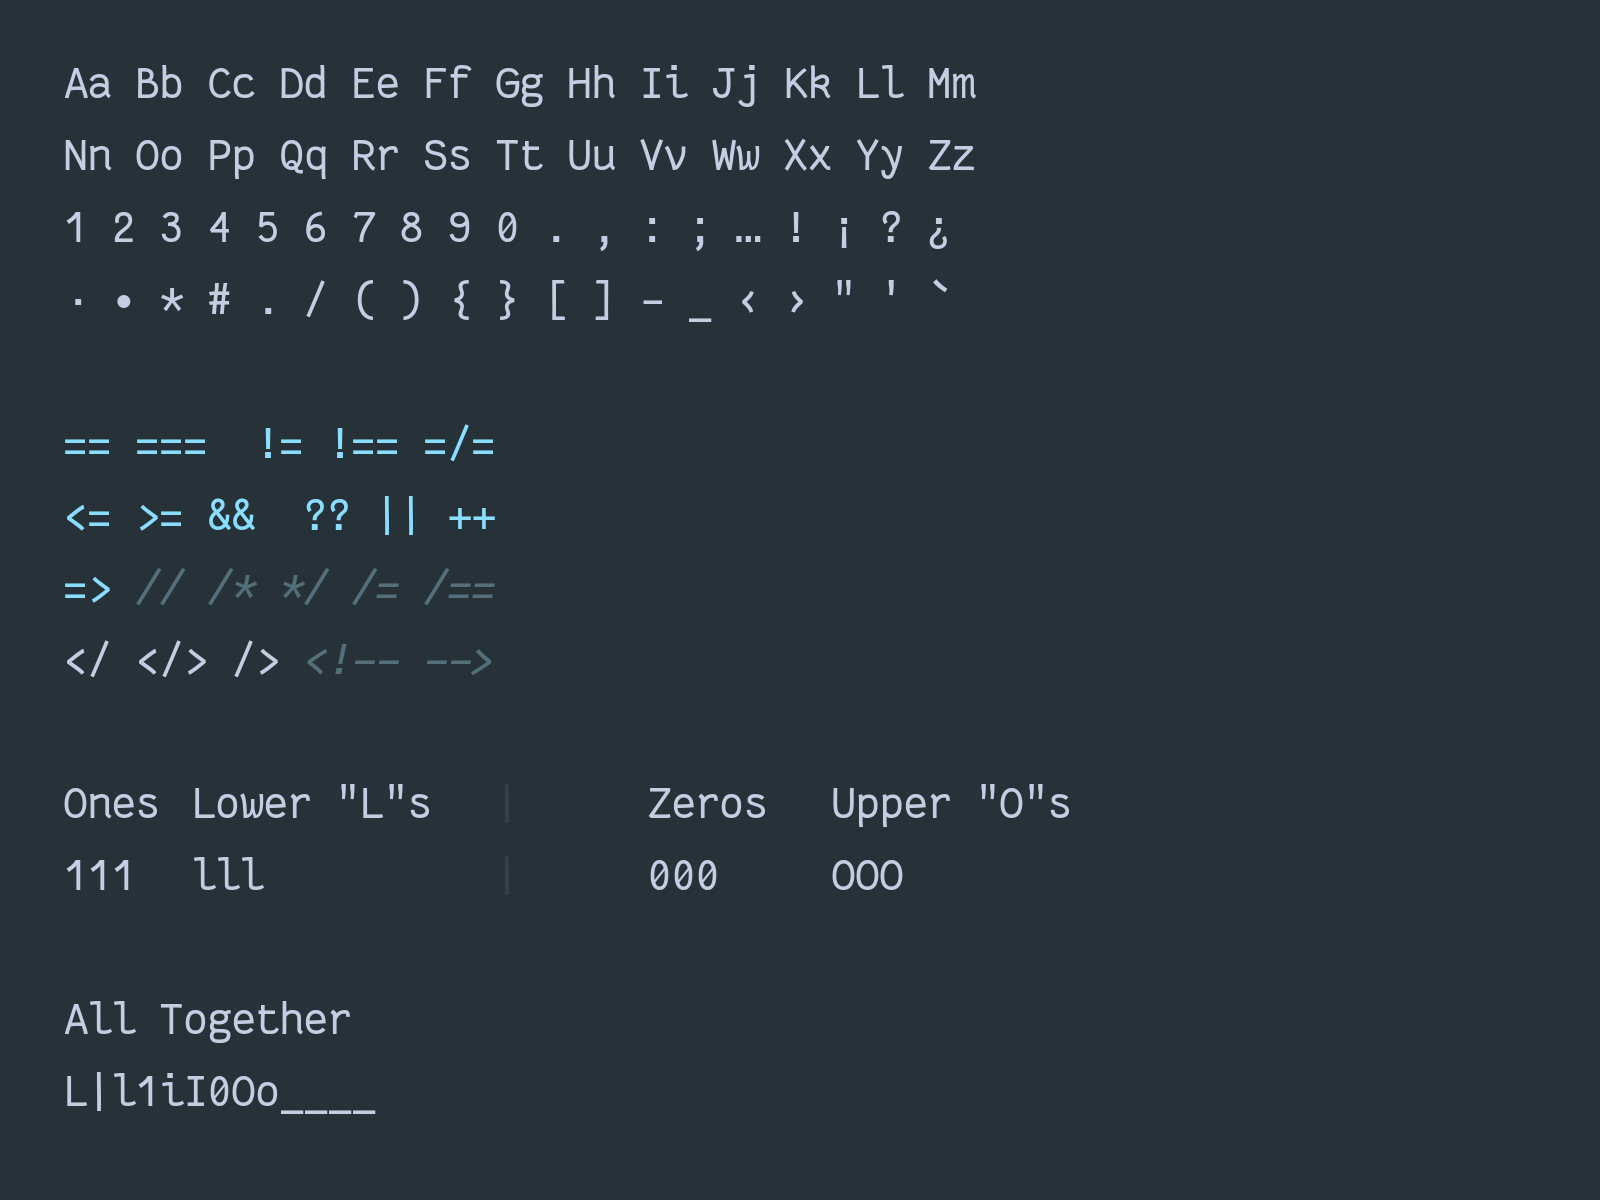
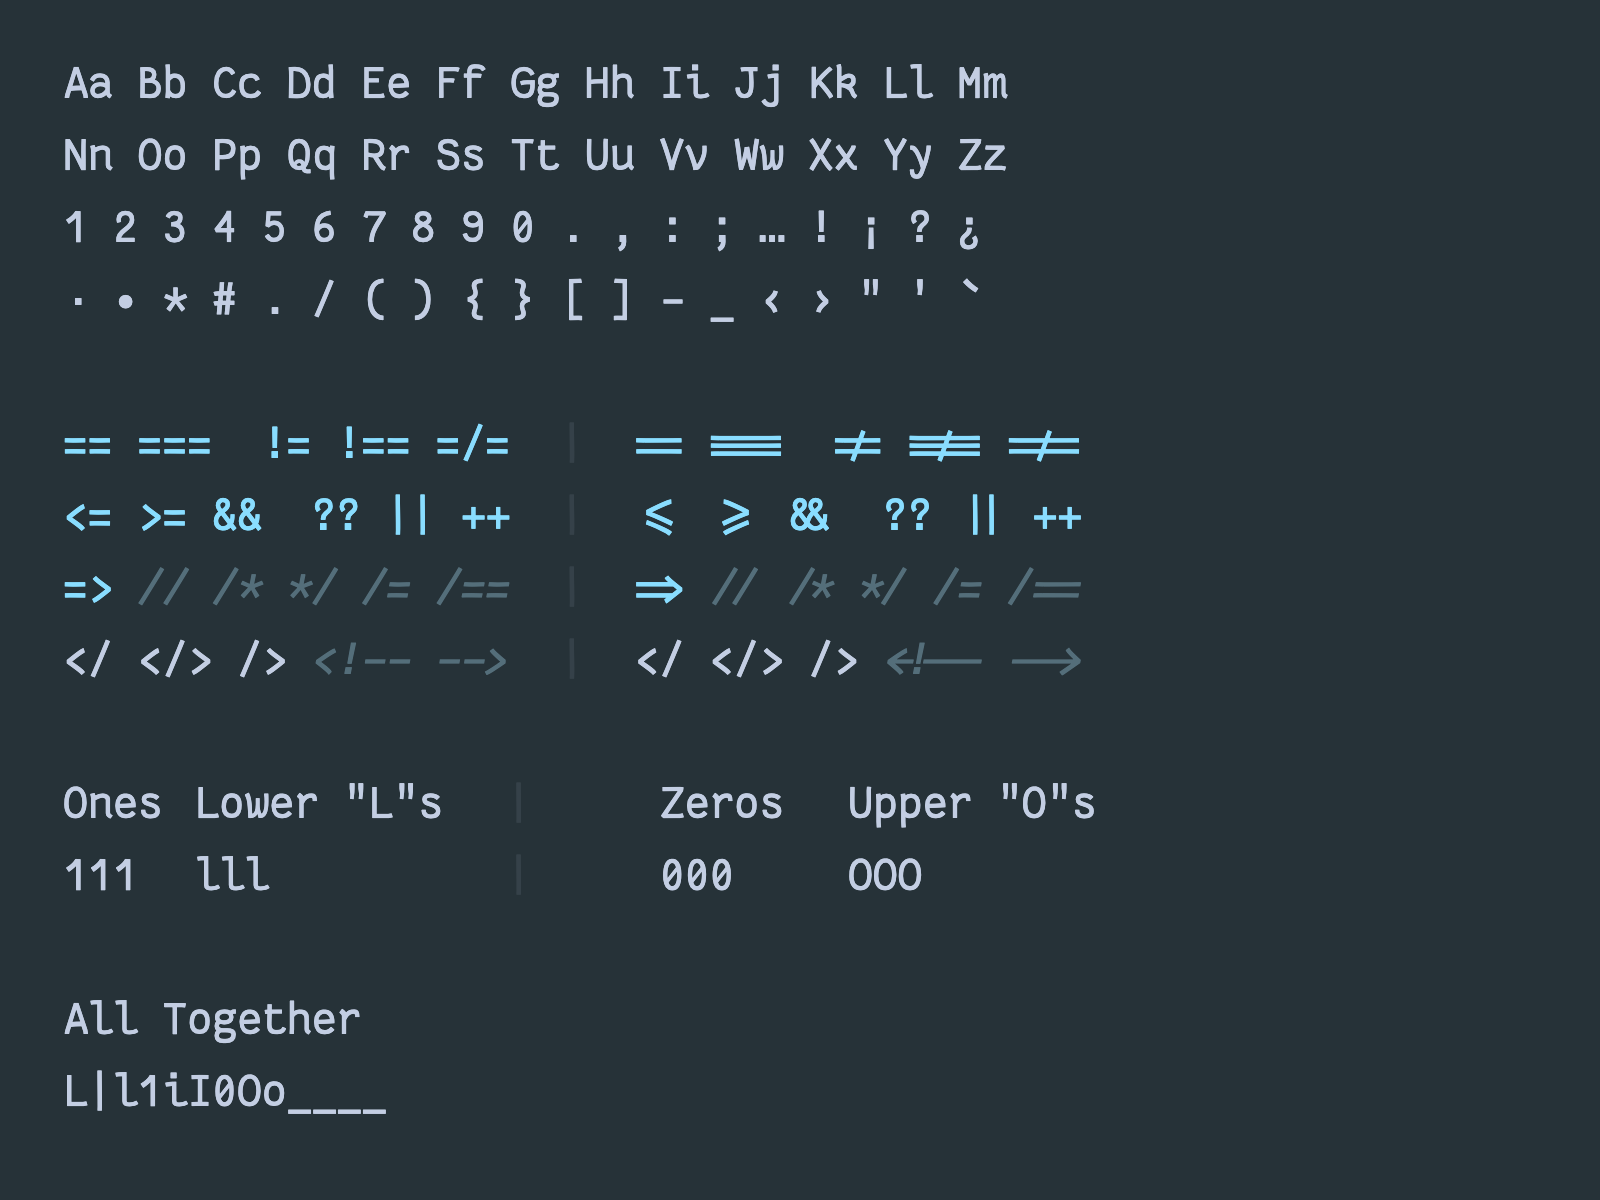
Set `ligatures` to `true` for Fantasque Sans Mono

diff --git a/src/fonts/fantasque-sans-mono.md b/src/fonts/fantasque-sans-mono.md
@@ -8,7 +8,7 @@ license:
   - name: SIL OPEN FONT LICENSE Version 1.1
     url: https://github.com/belluzj/fantasque-sans/blob/master/LICENSE.txt
 cost: free
-ligatures: false
+ligatures: true
 italics: true
 variable: false
 stylesheet_url: fantasque-sans-mono/fantasque-sans-mono.css
